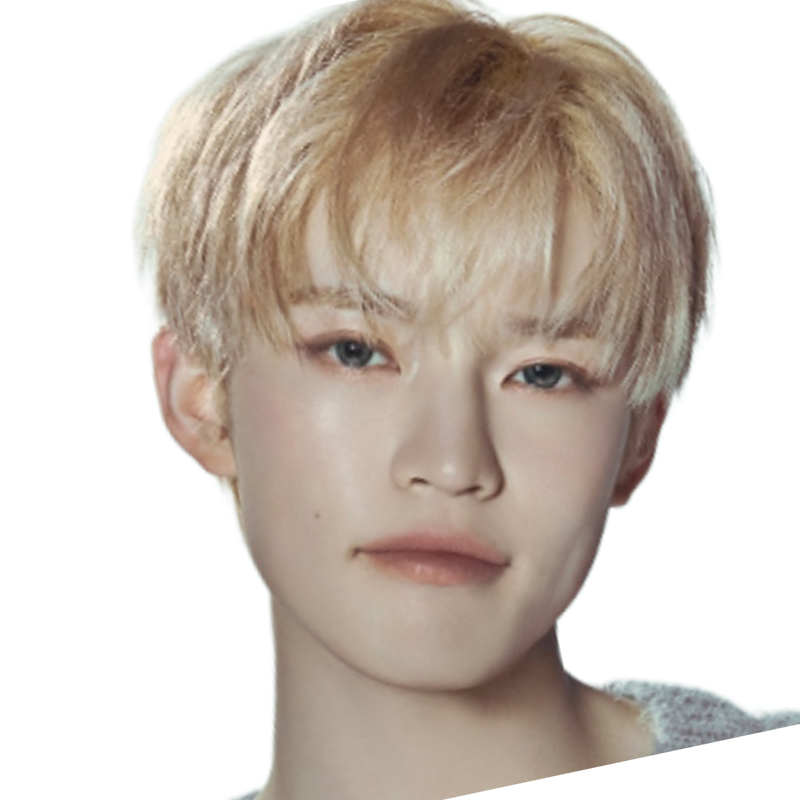
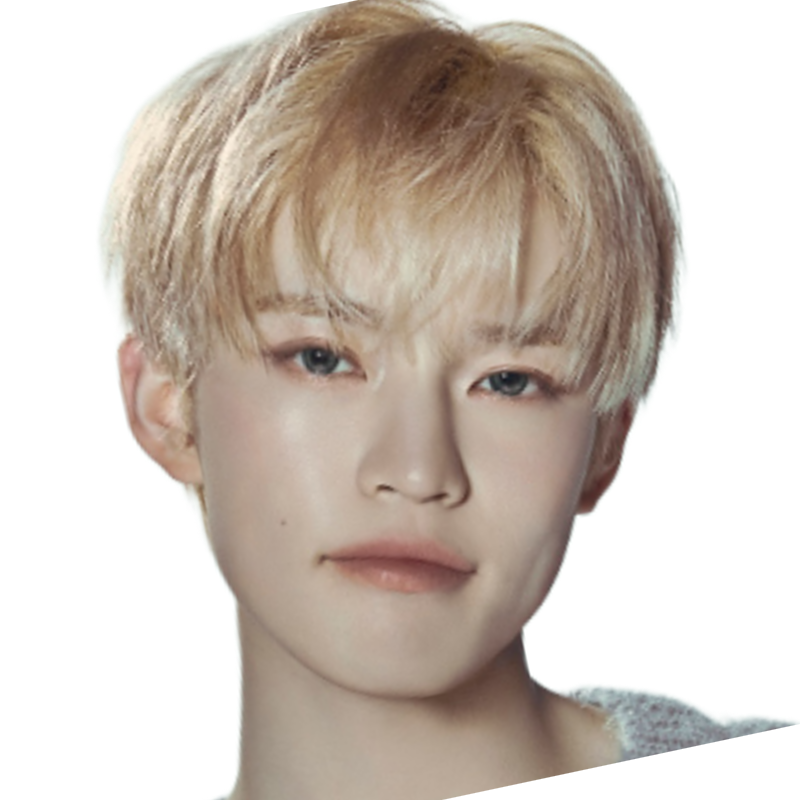
Update When I'm With You photos

diff --git a/js/ranking.js b/js/ranking.js
@@ -4,7 +4,7 @@
 /* ========================================= */
 
 /* Bump when the avatar images change, to bust the browser/Pages cache. */
-const PHOTO_VER = 42;
+const PHOTO_VER = 43;
 window.PHOTO_VER = PHOTO_VER;
 
 const Ranking = {
